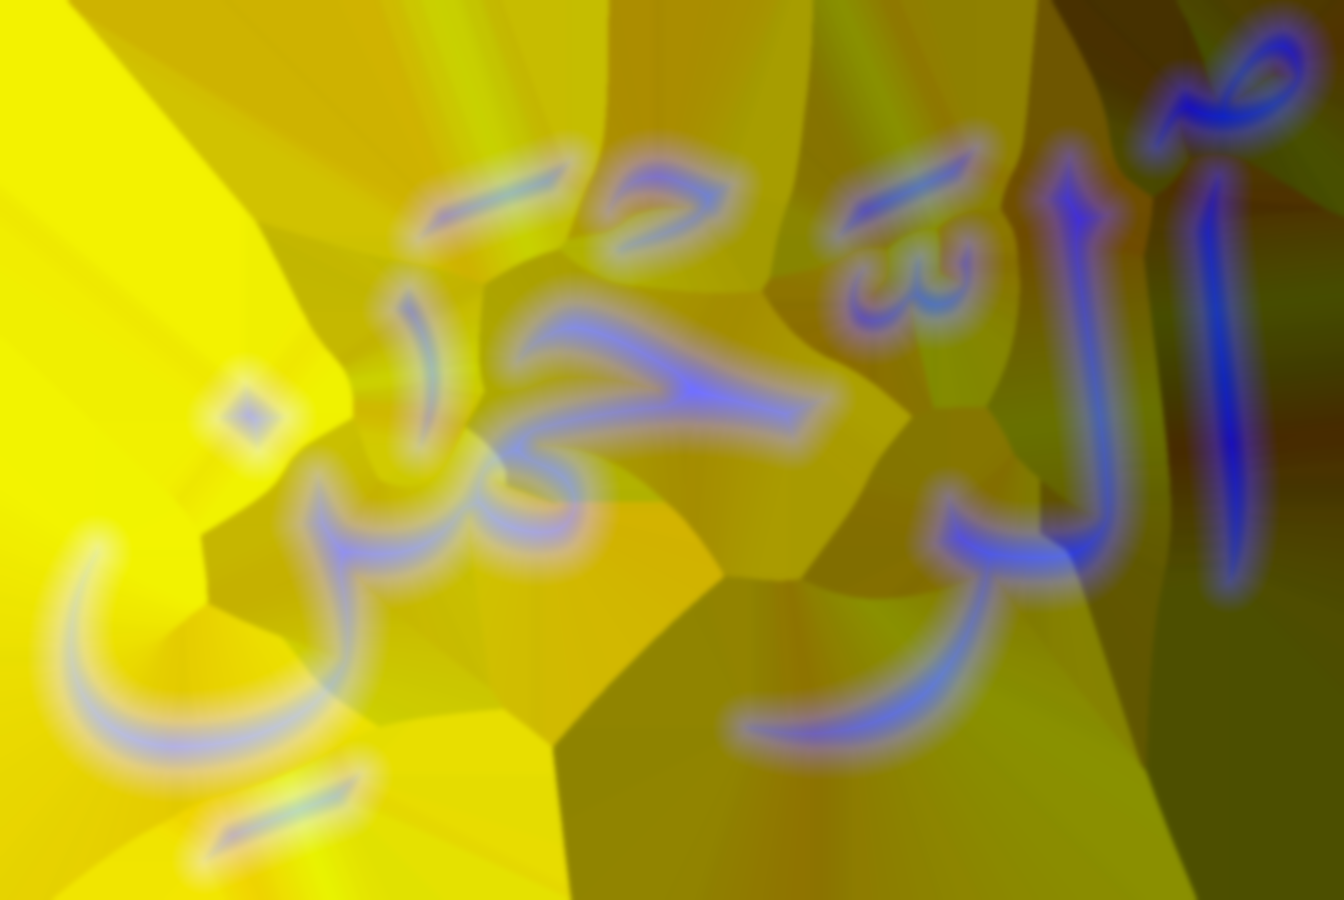
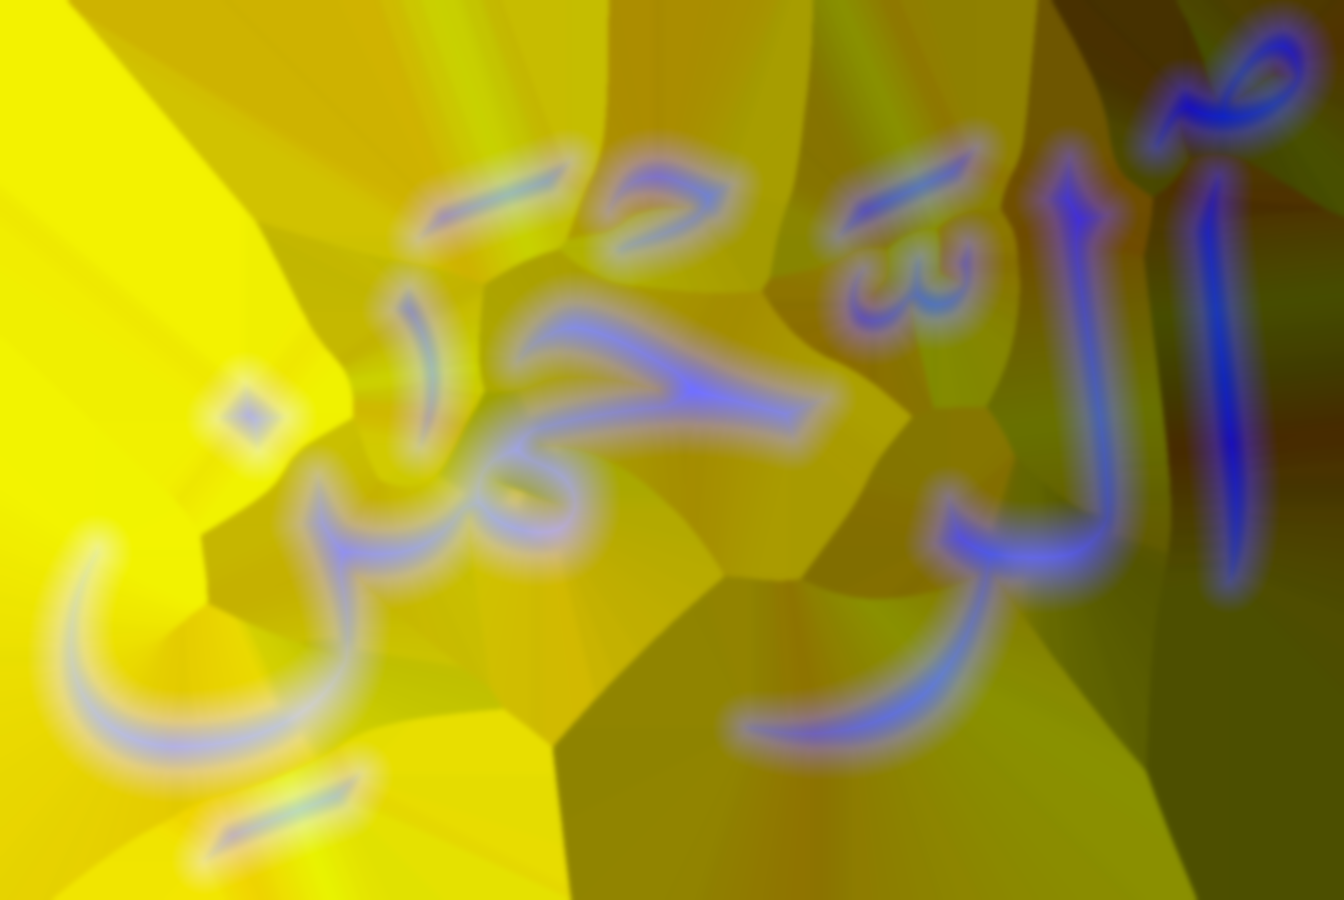
Blend ink flow across connected letter joins

diff --git a/tools/build_paper_ink_study.py b/tools/build_paper_ink_study.py
@@ -12,8 +12,9 @@ import numpy as np
 import uharfbuzz as hb
 from PIL import Image, ImageDraw, ImageFont
 from scipy.ndimage import distance_transform_edt, find_objects, gaussian_filter, label
-from scipy.sparse import coo_matrix
-from scipy.sparse.csgraph import dijkstra
+from scipy.sparse import coo_matrix, diags, eye
+from scipy.sparse.csgraph import dijkstra, laplacian
+from scipy.sparse.linalg import spsolve
 
 ROOT = Path(__file__).resolve().parents[1]
 SS = 4
@@ -120,6 +121,40 @@ def letter_anchors(advances, plain_advances, owner, ink, rtl):
     return anchors
 
 
+def connected_letter_flow(arrival, ink, owners, font_size):
+    """Blend letter timing across actual ink joins, keeping distant interiors fixed.
+
+    A screened graph diffusion removes ownership cuts along connected strokes.
+    Its tapered band follows ink paths: nearby letters separated by paper never
+    exchange ink, and the original per-letter pools remain outside that band.
+    This is baked into the arrival map, with no added runtime sampling.
+    """
+    graph = ink_graph(ink, np.full(ink.shape, .75))
+    edges = graph.tocoo()
+    letters = owners[ink]
+    joins = letters[edges.row] != letters[edges.col]
+    if not joins.any():
+        return arrival
+    seeds = np.unique(np.concatenate((edges.row[joins], edges.col[joins])))
+    radius = font_size * .08 * SS
+    travel = dijkstra(graph, directed=False, indices=seeds, min_only=True, limit=radius)
+    selected = np.flatnonzero(travel < radius)
+    strength = (radius / 2) ** 2 * (1 - (travel[selected] / radius) ** 2) ** 2
+    conductance = graph + graph.T
+    conductance.data = 1 / conductance.data ** 2
+    diffusion = laplacian(conductance).tocsr()
+    local = diffusion[selected][:, selected]
+    values = arrival[ink]
+    # The unselected nodes are fixed boundary conditions from the original fill.
+    rhs = values[selected] - strength * ((diffusion @ values)[selected] - local @ values[selected])
+    solved = spsolve(eye(len(selected), format='csr') + diags(strength) @ local, rhs)
+    result = arrival.copy()
+    blended = values.copy()
+    blended[selected] = solved
+    result[ink] = blended
+    return result
+
+
 def filling_field(text, ink, distance, box, ascent, font_path, font_size, merging=True):
     """Schedule shaped letter clusters, then wick from their interiors to the contour."""
     font = hb.Font(hb.Face(font_path.read_bytes()))
@@ -168,6 +203,7 @@ def filling_field(text, ink, distance, box, ascent, font_path, font_size, mergin
     duration = 2.8 / (len(ordered) + 1.8)
     onsets = {letter: i / (len(ordered) + 1.8) for i, (letter, _) in enumerate(ordered)}
     inside_out = np.zeros(ink.shape)
+    letter_owner = np.full(ink.shape, -1)
     filled_letters = set()
     for cluster, pools in anchors.items():
         pieces, _ = label(ink & (owner == cluster), np.ones((3, 3)))
@@ -183,6 +219,7 @@ def filling_field(text, ink, distance, box, ascent, font_path, font_size, mergin
                 local = [(letter, center - region[1].start)]
             owners, travel = wicking_basins(pixels, distance[region], local)
             filled_letters.update(owners)
+            letter_owner[region][pixels] = owners
             growth = np.empty(int(pixels.sum()))
             for letter in np.unique(owners):
                 basin = owners == letter
@@ -197,6 +234,7 @@ def filling_field(text, ink, distance, box, ascent, font_path, font_size, mergin
             starts = np.array([onsets[letter] for letter in owners])
             inside_out[region][pixels] = starts + duration * (.12 + .76 * growth)
     assert filled_letters == onsets.keys(), (text, filled_letters, onsets.keys())
+    inside_out = connected_letter_flow(inside_out, ink, letter_owner, font_size)
     nearest = tuple(distance_transform_edt(~ink, return_distances=False, return_indices=True))
     # Extrapolate into wet spread and soften joins without blurring the printed contour.
     return gaussian_filter(inside_out[nearest], SS * .65), duration

diff --git a/tools/test_paper_ink_study.py b/tools/test_paper_ink_study.py
@@ -8,7 +8,8 @@ from PIL import Image, ImageDraw, ImageFont
 from scipy.ndimage import distance_transform_edt, label
 
 from build_paper_ink_study import (
-    ARABIC_FONT, ENGLISH_FONT, ROOT, SS, filling_field, liquid_surface, reservoir_growth, wicking_basins,
+    ARABIC_FONT, ENGLISH_FONT, ROOT, SS, connected_letter_flow, filling_field, liquid_surface,
+    reservoir_growth, wicking_basins,
 )
 
 
@@ -26,6 +27,28 @@ def material(text, arabic=False, merging=True):
 
 
 class PaperInkStudyTest(unittest.TestCase):
+    def test_joined_letters_exchange_ink_smoothly_without_retiming_their_interiors(self):
+        ink = np.zeros((80, 320), dtype=bool)
+        ink[28:52, 20:300] = True
+        owners = np.broadcast_to((np.arange(320) >= 160).astype(int), ink.shape)
+        arrival = np.where(owners == 0, .2, .8)
+        flowing = connected_letter_flow(arrival, ink, owners, 160)
+        # The old ownership cut jumped 60% of the word in one raster pixel.
+        self.assertLess(np.max(np.abs(np.diff(flowing[40, 100:220]))), .04)
+        self.assertTrue(np.all(np.diff(flowing[40, 20:300]) >= -1e-12))
+        np.testing.assert_array_equal(flowing[:, :100], arrival[:, :100])
+        np.testing.assert_array_equal(flowing[:, 220:], arrival[:, 220:])
+        self.assertGreaterEqual(flowing[ink].min(), .2 - 1e-12)
+        self.assertLessEqual(flowing[ink].max(), .8 + 1e-12)
+
+    def test_close_but_disconnected_letters_keep_their_own_ink(self):
+        ink = np.zeros((80, 320), dtype=bool)
+        ink[28:52, 20:159] = True
+        ink[28:52, 161:300] = True
+        owners = np.broadcast_to((np.arange(320) >= 160).astype(int), ink.shape)
+        arrival = np.where(owners == 0, .2, .8)
+        np.testing.assert_array_equal(connected_letter_flow(arrival, ink, owners, 160), arrival)
+
     def test_liquid_surface_does_not_flatten_when_the_font_raster_is_half_size(self):
         fields = []
         for size in (160, 80):

diff --git a/tools/test_paper_ink_shader.py b/tools/test_paper_ink_shader.py
@@ -32,12 +32,12 @@ class PaperInkShaderTest(unittest.TestCase):
                         samplingOptions=skia.SamplingOptions(skia.FilterMode.kLinear))
                 cls.words.append((spec, children))
 
-    def render(self, word, repeat, wet, weight, method, tint=1, progress=1):
+    def render(self, word, repeat, wet, weight, method, tint=1, progress=1, retained=1):
         spec, children = word
         builder = skia.RuntimeShaderBuilder(self.effect)
         for name, child in children.items():
             builder.setChild(name, child)
-        uniforms = dict(progress=float(progress), reflectionStrength=0., lightSoftness=0., retained=1.,
+        uniforms = dict(progress=float(progress), reflectionStrength=0., lightSoftness=0., retained=float(retained),
                         wet=float(wet), weight=float(weight), aa=.9, repeatColor=[180/255, 85/255, 30/255],
                         repeatPass=float(repeat), repeatTint=float(tint), spreadMethod=float(method),
                         letterDuration=spec['letterDuration'], origin=[0., 0.])

diff --git a/docs/GLIMMER.md b/docs/GLIMMER.md
@@ -27,7 +27,7 @@ reading order. The continuous wash never skips an earlier word.
 
 **Inside out / Merging pools** switches the ink spread without restarting
 playback or changing the other controls. **Inside out** is the default,
-restoring the earlier depth-led interior spread. **Merging pools** is the
+using the earlier depth-led interior spread. **Merging pools** is the
 Pentiment-inspired comparison, with separated deposits joining within each
 letter. Both develop from deep interiors toward the contour and branches.
 Direction comes from overlapping letter start times: roughly three letter
@@ -48,8 +48,12 @@ delays. The reservoir fronts spread along connected strokes, join, and soak
 out to the contour. Deep passages carry ink faster; distant parts no longer
 appear together merely because they have the same stroke thickness. Small
 marks keep a single deposit and follow their associated letter. A soft temporal
-front scales to the letter duration; joins are smoothed without changing the
-glyph outline.
+front scales to the letter duration. Where letter basins touch, a tapered
+diffusion band blends their arrival times along the connected ink. It follows
+stroke paths through the join, keeping distant letter interiors and their
+reading-order starts intact. Paper gaps do not conduct that blend. Both spread
+methods use it; the printed contour stays unchanged. The solve is baked into
+the maps and adds no shader work or runtime sampling.
 
 This is a geometry-guided approximation of letter ownership and liquid spread,
 not anatomical letter outlines recovered from a ligature, a fluid solver or
@@ -174,6 +178,8 @@ ligatures, single-pixel marks, separate deposits merging inside one letter,
 capillary paths around a paper gap, and distinct growth on identical outlines
 and schedules when switching spread methods. A surface-scale regression checks
 equivalent film depth and curvature at half-size font rasterization.
+Connected-flow regressions check a smooth, bounded transition through a shared
+stroke with fixed interiors, and exact independence across a narrow paper gap.
 The controlled reflection is identical in recordings and on a still phone;
 physical-device performance and reading comfort still need evaluation.
 
